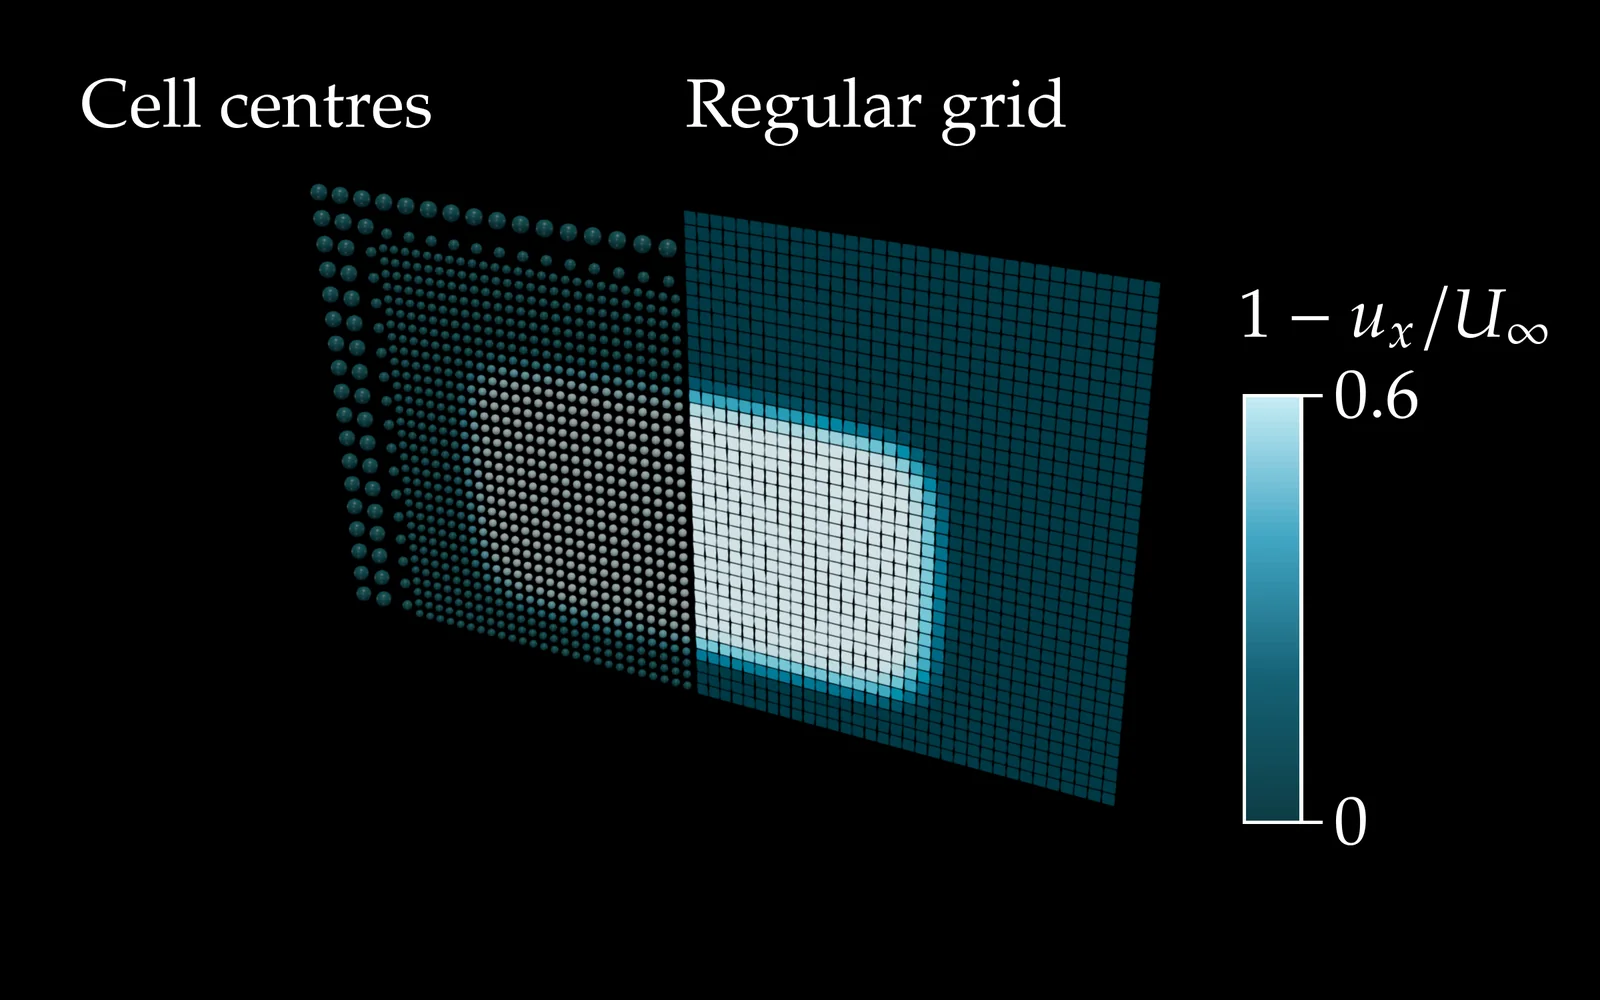
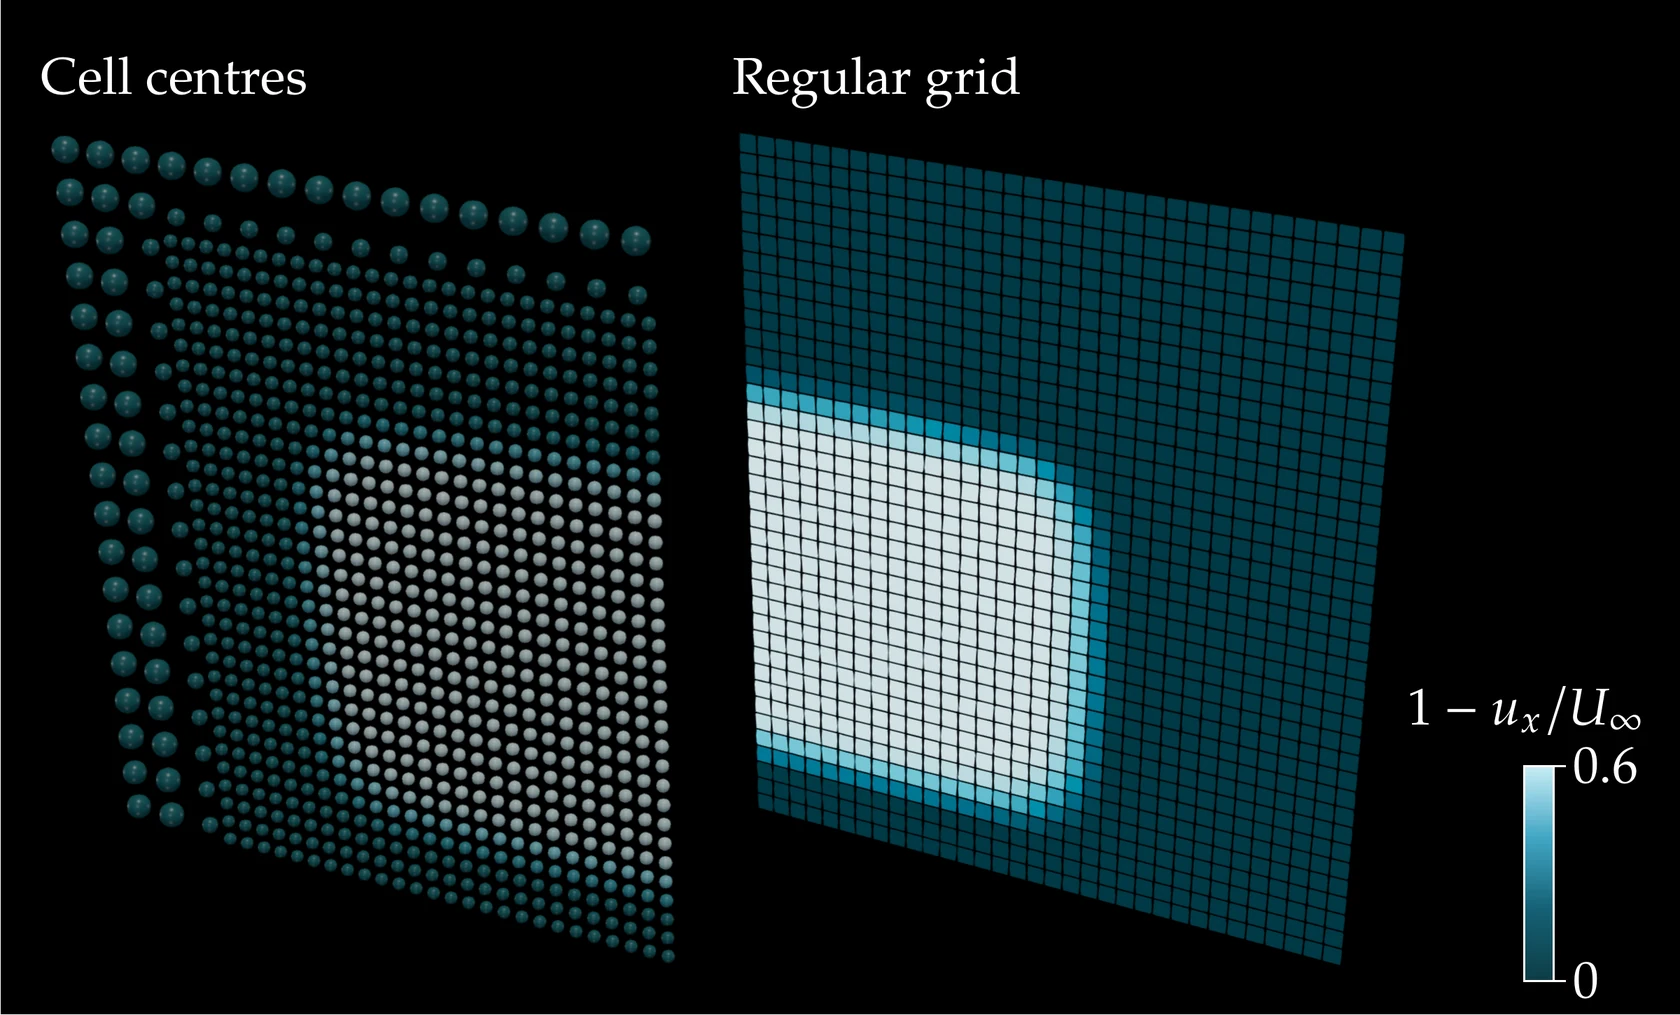
Figure to the OpenONDA figure spec; README shows it at 560 px
Cropped to its content, labels above panels on a shared baseline, a
short colour bar in the bottom-right corner, brushed-metal solids, and a
check that no text covers the drawing.

diff --git a/scripts/render/overlay.py b/scripts/render/overlay.py
@@ -1,94 +1,166 @@
-"""LaTeX overlay for the website renders, after the OpenONDA tutorial figures.
+"""LaTeX overlay for the website and README figures, after the OpenONDA tutorial figures.
 
-Puts a raw render on a fixed 16:10 canvas (90 mm x 56.25 mm) and adds white
-New PX text at 10.95 pt plus at most one vertical colour bar with end ticks.
-At the 600 px card width that text is about 26 px high, so it stays legible.
+Figure spec
+- Canvas 125 mm wide (the OpenONDA figure width), height set by the content.
+- Text: New PX at 10.95 pt, white on black. That is about 3 % of the image
+  width, so it reads as ~12.5 pt where READMEs show the figure 560 px wide and
+  ~10.5 pt on the 475 px website cards.
+- Each panel is trimmed to its content (anything brighter than the background)
+  plus a small margin, so there is no empty headroom.
+- Panel labels sit in a strip above their panel; the single colour bar is short
+  and sits in the bottom-right corner, in its own column. Neither may cover
+  the drawing: compose() checks that every pixel the overlay changes was
+  background, and fails otherwise.
 Writes <stem>.pdf, <stem>.png (2400 px wide) and <stem>.webp (quality 85).
 
-    compose("raw.png", "out/figure", bar=dict(name="thesis_blue", vmin=0, vmax=5,
-            title=r"$|\\omega|$ [1/s]"), labels=[(60, 40, r"$\\mathbf{U}$")])
+    compose([("raw.png", "Rotor only"), ("raw2.png", "Four wings")], "out/fig",
+            bar=dict(name="thesis_blue", vmin=0, vmax=0.6, title=r"$1-u_x/U_\\infty$"))
 """
 import shutil
 import subprocess
 import tempfile
 from pathlib import Path
 
+import numpy as np
 from PIL import Image
 
 from onda_style import colour
 
-WIDTH_MM, HEIGHT_MM = 90.0, 56.25
+WIDTH_MM = 125.0
 PIXELS = 2400
+PX_PER_MM = PIXELS / WIDTH_MM
+MARGIN_MM = 2.5            # around the canvas edge and between panels
+LABEL_MM = 6.5             # strip above a labelled panel
+BAR = dict(width=2.2, height=16.0, column=17.0, labels=6.0)   # bar size, its column, room for tick labels [mm]
+BACKGROUND = 18            # grey level below which a pixel counts as background
+
+
+def trim(img, pad_mm=1.0, box_only=False):
+    """Crop to pixels brighter than the background, plus pad_mm (box_only: return the box)."""
+    a = np.asarray(img.convert("L"))
+    rows, cols = np.where(a > BACKGROUND)
+    pad = int(pad_mm * PX_PER_MM)
+    box = (max(cols.min() - pad, 0), max(rows.min() - pad, 0),
+           min(cols.max() + pad + 1, img.width), min(rows.max() + pad + 1, img.height))
+    return box if box_only else img.crop(box)
 
 
 def _num(v):
-    return f"{v:.2g}".replace("e+0", "e").replace("-", "$-$") if isinstance(v, float) else str(v)
+    return f"{v:g}".replace("-", "$-$")
 
 
-def compose(raw, stem, bar=None, labels=(), crop=None):
-    """bar: dict(name, vmin, vmax, title, fade=0.0, x=4, y=14, height=24, ticks=None)
-    labels: (x_mm, y_mm, latex, anchor) from the lower-left corner.
-    crop: (left, top, right, bottom) fractions removed from the raw image."""
-    raw, stem = Path(raw).resolve(), Path(stem)
+def compose(panels, stem, bar=None, layout="column", check=True, notes=()):
+    """panels: list of (image path, label or None); layout: "column" or "row".
+    notes: point annotations on the first panel, (fx, fy, text, anchor, dx_mm, dy_mm) with
+    fx, fy fractions of the raw image from its lower-left corner. Notes are meant to sit
+    on the drawing, so the overlap check ignores them.
+    bar: dict(name, vmin, vmax, title, fade=0.0, ticks=[(fraction, text), ...])."""
+    stem = Path(stem)
     stem.parent.mkdir(parents=True, exist_ok=True)
-    work = Path(tempfile.mkdtemp())
-    img = Image.open(raw).convert("RGB")
-    if crop:
-        w, h = img.size
-        img = img.crop((int(crop[0] * w), int(crop[1] * h), int(w - crop[2] * w), int(h - crop[3] * h)))
-    # fill the canvas: scale to cover 16:10, centred
-    target = WIDTH_MM / HEIGHT_MM
-    w, h = img.size
-    if w / h > target:
-        nw = int(h * target)
-        img = img.crop(((w - nw) // 2, 0, (w - nw) // 2 + nw, h))
+    raws = [Image.open(p).convert("RGB") for p, _ in panels]
+    boxes = [trim(r, box_only=True) for r in raws]
+    imgs = [r.crop(b) for r, b in zip(raws, boxes)]
+    labels = [lab for _, lab in panels]
+    bar_mm = BAR["column"] if bar else 0.0
+    avail = WIDTH_MM - 2 * MARGIN_MM - bar_mm
+    if layout == "column":
+        widths = [avail] * len(imgs)
+    else:   # row: equal heights, total width = avail
+        gaps = MARGIN_MM * (len(imgs) - 1)
+        k = sum(i.width / i.height for i in imgs)
+        widths = [(avail - gaps) * (i.width / i.height) / k for i in imgs]
+    heights = [w * i.height / i.width for w, i in zip(widths, imgs)]
+    lab_mm = LABEL_MM if any(labels) else 0.0
+    if layout == "column":
+        H = MARGIN_MM + sum(h + lab_mm for h in heights) + MARGIN_MM * len(imgs)
     else:
-        nh = int(w / target)
-        img = img.crop((0, (h - nh) // 2, w, (h - nh) // 2 + nh))
-    img.save(work / "raw.png")
-
-    body = [rf"\node[anchor=south west,inner sep=0] at (0,0) {{\includegraphics[width={WIDTH_MM}mm,height={HEIGHT_MM}mm]{{raw.png}}}};"]
+        H = 2 * MARGIN_MM + lab_mm + max(heights)
     if bar:
-        x, y, hgt, wid = bar.get("x", 4.0), bar.get("y", 14.0), bar.get("height", 24.0), 3.2
+        H = max(H, BAR["height"] + 12.0)
+    H = round(H, 2)
+
+    # base raster: panels on black, positions in mm from the top-left
+    W_px, H_px = PIXELS, int(round(H * PX_PER_MM))
+    base = Image.new("RGB", (W_px, H_px))
+    places, y, x = [], MARGIN_MM, MARGIN_MM
+    for img, w, h in zip(imgs, widths, heights):
+        if layout == "column":
+            px, py = MARGIN_MM, y + lab_mm
+            y = py + h + MARGIN_MM
+        else:
+            px, py = x, MARGIN_MM + lab_mm + (max(heights) - h) / 2
+            x += w + MARGIN_MM
+        places.append((px, py, w, h))
+        base.paste(img.resize((int(w * PX_PER_MM), int(h * PX_PER_MM)), Image.LANCZOS),
+                   (int(px * PX_PER_MM), int(py * PX_PER_MM)))
+
+    work = Path(tempfile.mkdtemp())
+    base.save(work / "base.png")
+    body = []
+    for (px, py, w, h), lab in zip(places, labels):
+        if lab:   # in a row, all labels share one baseline above the tallest panel
+            top = MARGIN_MM + lab_mm if layout == "row" else py
+            body.append(rf"\node[anchor=base west,white,inner sep=0] at ({px + 0.5},{H - top + 2.0}) {{{lab}}};")
+    if bar:
+        bw, bh = BAR["width"], BAR["height"]
+        # tucked into the bottom-right corner: tick labels end at the right margin
+        bx = WIDTH_MM - MARGIN_MM - BAR["labels"] - 0.9 - bw
+        by = MARGIN_MM
         n = 64
         for k in range(n):
             r, g, b = colour(bar["name"], (k + 0.5) / n, bar.get("fade", 0.0))
             body.append(rf"\definecolor{{c{k}}}{{rgb}}{{{r:.4f},{g:.4f},{b:.4f}}}")
-            body.append(rf"\fill[c{k}] ({x},{y + hgt * k / n:.4f}) rectangle ({x + wid},{y + hgt * (k + 1) / n:.4f});")
-        body.append(rf"\draw[white,line width=0.6pt] ({x},{y}) rectangle ({x + wid},{y + hgt});")
+            body.append(rf"\fill[c{k}] ({bx},{by + bh * k / n:.4f}) rectangle ({bx + bw},{by + bh * (k + 1) / n:.4f});")
+        body.append(rf"\draw[white,line width=0.5pt] ({bx},{by}) rectangle ({bx + bw},{by + bh});")
         ticks = bar.get("ticks") or [(0.0, _num(bar["vmin"])), (1.0, _num(bar["vmax"]))]
         for f, text in ticks:
-            yy = y + hgt * f
-            body.append(rf"\draw[white,line width=0.6pt] ({x + wid},{yy}) -- ({x + wid + 1.2},{yy});")
-            body.append(rf"\node[anchor=west,white,inner sep=0.6mm] at ({x + wid + 1.2},{yy}) {{{text}}};")
-        body.append(rf"\node[anchor=south west,white,inner sep=0] at ({x - 0.4},{y + hgt + 2.4}) {{{bar['title']}}};")
-    for lab in labels:
-        xx, yy, text = lab[:3]
-        anchor = lab[3] if len(lab) > 3 else "center"
-        body.append(rf"\node[anchor={anchor},white,inner sep=0.5mm] at ({xx},{yy}) {{{text}}};")
-    tex = (r"""\documentclass[tikz,border=0pt]{standalone}
+            yy = by + bh * f
+            body.append(rf"\draw[white,line width=0.5pt] ({bx + bw},{yy}) -- ({bx + bw + 0.9},{yy});")
+            body.append(rf"\node[anchor=west,white,inner sep=0.5mm] at ({bx + bw + 0.9},{yy}) {{{text}}};")
+        body.append(rf"\node[anchor=south east,white,inner sep=0] at ({WIDTH_MM - MARGIN_MM},{by + bh + 2.2}) {{{bar['title']}}};")
+    def latex(name, lines):
+        tex = r"""\documentclass[tikz,border=0pt]{standalone}
 \usepackage[T1]{fontenc}
 \usepackage{newpxtext,newpxmath}
 \usepackage{graphicx}
 \begin{document}
 \begin{tikzpicture}[x=1mm,y=1mm,font=\fontsize{10.95}{13.1}\selectfont]
 \clip (0,0) rectangle (%s,%s);
-\fill[black] (0,0) rectangle (%s,%s);
+\node[anchor=south west,inner sep=0] at (0,0) {\includegraphics[width=%smm,height=%smm]{base.png}};
 %s
 \end{tikzpicture}
 \end{document}
-""" % (WIDTH_MM, HEIGHT_MM, WIDTH_MM, HEIGHT_MM, "\n".join(body)))
-    (work / "fig.tex").write_text(tex)
-    run = subprocess.run(["pdflatex", "-interaction=nonstopmode", "fig.tex"], cwd=work, capture_output=True, text=True)
-    if run.returncode:
-        raise RuntimeError(run.stdout[-2000:])
+""" % (WIDTH_MM, H, WIDTH_MM, H, "\n".join(lines))
+        (work / f"{name}.tex").write_text(tex)
+        run = subprocess.run(["pdflatex", "-interaction=nonstopmode", f"{name}.tex"], cwd=work, capture_output=True, text=True)
+        if run.returncode:
+            raise RuntimeError(run.stdout[-2000:])
+        subprocess.run(["pdftoppm", "-png", "-r", f"{PX_PER_MM * 25.4:.3f}", "-singlefile", f"{name}.pdf", name],
+                       cwd=work, check=True)
+        return Image.open(work / f"{name}.png").convert("RGB").resize((W_px, H_px), Image.LANCZOS)
+
+    note_lines = []
+    if notes:
+        (px, py, w, h), (x0, y0, x1, y1), raw0 = places[0], boxes[0], raws[0]
+        for fx, fy, text, anchor, dx, dy in notes:
+            ix, iy = fx * raw0.width, (1 - fy) * raw0.height          # raw pixels from the top-left
+            mx = px + (ix - x0) / (x1 - x0) * w + dx
+            my = H - (py + (iy - y0) / (y1 - y0) * h) + dy
+            note_lines.append(rf"\node[anchor={anchor},white,inner sep=0.4mm] at ({mx:.2f},{my:.2f}) {{{text}}};")
+    out = latex("fig", body + note_lines)
     shutil.copy(work / "fig.pdf", stem.with_suffix(".pdf"))
-    dpi = PIXELS / (WIDTH_MM / 25.4)
-    subprocess.run(["pdftoppm", "-png", "-r", f"{dpi:.3f}", "-singlefile", "fig.pdf", "out"], cwd=work, check=True)
-    out = Image.open(work / "out.png").convert("RGB")
-    out = out.resize((PIXELS, round(PIXELS * HEIGHT_MM / WIDTH_MM)), Image.LANCZOS)
+    if check:   # every pixel the overlay changes must have been background
+        plain = latex("plain", [])
+        furniture = latex("furniture", body) if note_lines else out
+        a, b = np.asarray(plain.convert("L")).astype(int), np.asarray(furniture.convert("L")).astype(int)
+        changed = np.abs(a - b) > 40
+        clash = changed & (a > BACKGROUND + 12)
+        if clash.sum() > 0.002 * max(changed.sum(), 1):
+            ys, xs = np.where(clash)
+            raise RuntimeError(f"overlay covers the drawing near x = {xs.mean() / PX_PER_MM:.0f} mm, "
+                               f"y = {ys.mean() / PX_PER_MM:.0f} mm from the top-left ({clash.sum()} px)")
     out.save(stem.with_suffix(".png"), optimize=True)
     out.save(stem.with_suffix(".webp"), quality=85, method=6)
     shutil.rmtree(work)
-    for ext in (".png", ".webp"):
-        print(stem.with_suffix(ext), f"{stem.with_suffix(ext).stat().st_size / 1e3:.0f} kB", out.size)
+    print(stem.with_suffix(".webp"), f"{stem.with_suffix('.webp').stat().st_size / 1e3:.0f} kB", out.size,
+          f"{WIDTH_MM:g} x {H:g} mm")

diff --git a/scripts/render/onda_style.py b/scripts/render/onda_style.py
@@ -7,7 +7,8 @@ Rules:
 - black background; the low end of each sequential map fades into it;
 - one-hue OpenONDA maps: thesis_blue for magnitudes, thesis_signed for signed
   fields with a meaningful zero (signed_dark on black), thesis_amber for streamlines and trajectories;
-- solids are matte grey PBR; no outlines, axes or floors;
+- solids are matte grey PBR; metal parts use metal() (brushed, grainy metal);
+  no outlines, axes or floors;
 - OpenGL with the OpenONDA light kit and filmic tone mapping;
 - text and the single colour bar are added afterwards by overlay.py (LaTeX,
   New PX), large enough to read at the figure's display size.
@@ -109,3 +110,70 @@ def save(view, path, width, height):
     view.Update()
     SaveScreenshot(str(path), view, ImageResolution=[width, height],
                    TransparentBackground=0, CompressionLevel=0)
+
+
+def _grain_textures(directory, size=512, seed=3):
+    """Brushed-metal textures: an ORM map (occlusion, roughness, metallic) with
+    streaky roughness, and a matching normal map. Written as PNG with VTK."""
+    from pathlib import Path
+
+    import numpy as np
+    from vtkmodules.util.numpy_support import numpy_to_vtk
+    from vtkmodules.vtkCommonDataModel import vtkImageData
+    from vtkmodules.vtkIOImage import vtkPNGWriter
+    rng = np.random.default_rng(seed)
+    noise = rng.standard_normal((size, size))
+    # streaks: smooth strongly along u (the brushing direction), lightly along v
+    k = np.exp(-np.linspace(-3, 3, 61) ** 2)
+    streak = np.apply_along_axis(lambda r: np.convolve(np.r_[r[-30:], r, r[:30]], k / k.sum(), "valid"), 1, noise)
+    fine = rng.standard_normal((size, size)) * 0.35
+    h = streak / streak.std() + fine
+    rough = np.clip(0.32 + 0.10 * h, 0.12, 0.7)
+    orm = np.stack([np.ones_like(h), rough, np.full_like(h, 0.2)], -1)   # partly metallic: a black
+    # background gives a fully metallic surface nothing to reflect, so keep some diffuse shading
+    gy, gx = np.gradient(h)
+    n = np.stack([-0.2 * gx, -0.2 * gy, np.ones_like(h)], -1)
+    n /= np.linalg.norm(n, axis=-1, keepdims=True)
+    paths = {}
+    for name, arr in (("metal_orm", orm), ("metal_normal", 0.5 * n + 0.5)):
+        img = vtkImageData()
+        img.SetDimensions(size, size, 1)
+        img.GetPointData().SetScalars(numpy_to_vtk((arr * 255).astype(np.uint8).reshape(-1, 3), deep=1))
+        path = Path(directory) / f"{name}.png"
+        w = vtkPNGWriter()
+        w.SetFileName(str(path))
+        w.SetInputData(img)
+        w.Write()
+        paths[name] = str(path)
+    return paths
+
+
+def metal(source, view, mapping="cylinder", rgb=(0.92, 0.93, 0.95), repeat=(4.0, 1.0)):
+    """Show ``source`` as brushed metal: metallic PBR with grainy roughness and
+    micro-normals. mapping: how texture coordinates are laid on (cylinder,
+    plane or sphere). Returns the display."""
+    import tempfile
+    from pathlib import Path as _P
+    from paraview.simple import (CreateTexture, ExtractSurface, Show, SurfaceNormals, SurfaceTangents,
+                                 TextureMaptoCylinder, TextureMaptoPlane, TextureMaptoSphere, Triangulate)
+    mapper = {"cylinder": TextureMaptoCylinder, "plane": TextureMaptoPlane, "sphere": TextureMaptoSphere}[mapping]
+    tc = mapper(Input=SurfaceNormals(Input=ExtractSurface(Input=source)))   # any dataset -> polygons
+    if mapping == "cylinder":
+        tc.PreventSeam = 0
+    tangents = SurfaceTangents(Input=Triangulate(Input=tc))   # tangents need triangles
+    tex = _grain_textures(_P(tempfile.mkdtemp()))
+    d = Show(tangents, view)
+    d.Representation = "Surface"
+    d.ColorArrayName = ["POINTS", ""]
+    d.DiffuseColor = d.AmbientColor = list(rgb)
+    d.Interpolation = "PBR"
+    d.Metallic = 1.0                       # scaled by the ORM texture's metallic channel
+    d.Roughness = 1.0                      # scaled by the ORM texture's roughness channel
+    d.MaterialTexture = CreateTexture(tex["metal_orm"])
+    d.NormalTexture = CreateTexture(tex["metal_normal"])
+    d.NormalScale = 1.0
+    d.RepeatTextures = 1
+    d.InterpolateTextures = 1
+    d.TextureTransform = "Transform2"
+    d.TextureTransform.Scale = [repeat[0], repeat[1], 1.0]
+    return d

diff --git a/scripts/render/render_slice.py b/scripts/render/render_slice.py
@@ -1,7 +1,7 @@
 """ParaView (pvpython) render in the OpenONDA style: OpenFOAM cell-centre samples
 beside the same plane resampled onto a regular grid.
 
-Usage: pvpython render_slice.py <output png> [width height]
+Usage: pvpython render_slice.py <output png> <samples|grid> [width height]
 Reads outputs/render/{samples,grid}.vtp from compute_slice.py.
 
 Black background. Both halves show the velocity deficit 1 - u_x/U_inf with
@@ -16,8 +16,8 @@ sys.path.insert(0, str(HERE))
 import onda_style as style  # noqa: E402
 from paraview.simple import Calculator, Glyph, Show, XMLPolyDataReader  # noqa: E402
 
-out = Path(sys.argv[1])
-width, height = (int(a) for a in (sys.argv[2:4] if len(sys.argv) > 3 else (2400, 1500)))
+out, which = Path(sys.argv[1]), sys.argv[2]
+width, height = (int(a) for a in (sys.argv[3:5] if len(sys.argv) > 4 else (3000, 1875)))
 DATA = HERE.parents[1] / "outputs" / "render"
 U_INF, DEFICIT_MAX = 4.0, 0.6
 
@@ -33,14 +33,16 @@ spheres.GlyphType.PhiResolution = 16
 spheres.ScaleArray = ["POINTS", "radius"]
 spheres.ScaleFactor = 1.0
 spheres.GlyphMode = "All Points"
-style.mapped(Show(spheres, view), "deficit", lut, roughness=0.35)
+if which == "samples":
+    style.mapped(Show(spheres, view), "deficit", lut, roughness=0.35)
 
 grid = Calculator(Input=XMLPolyDataReader(FileName=[str(DATA / "grid.vtp")]), AttributeType="Cell Data",
                   ResultArrayName="deficit", Function=f"1 - Ux/{U_INF}")
-d = Show(grid, view)
-style.mapped(d, "deficit", lut, assoc="CELLS")
-d.Interpolation = "Flat"
-d.Ambient, d.Diffuse = 1.0, 0.0                 # unlit: the field glows
+if which == "grid":
+    d = Show(grid, view)
+    style.mapped(d, "deficit", lut, assoc="CELLS")
+    d.Interpolation = "Flat"
+    d.Ambient, d.Diffuse = 1.0, 0.0             # unlit: the field glows
 lut.RescaleTransferFunction(0.0, DEFICIT_MAX)
 
 view.CameraPosition = [18.3, 4.7, 6.3]

diff --git a/scripts/render/compose_slice.py b/scripts/render/compose_slice.py
@@ -1,6 +1,6 @@
 """Add the LaTeX overlay (half labels and the deficit colour bar) to the slice render.
 
-Usage: python compose_slice.py <raw png> <output stem>
+Usage: python compose_slice.py <samples png> <grid png> <output stem>
 """
 import sys
 from pathlib import Path
@@ -8,8 +8,6 @@ from pathlib import Path
 sys.path.insert(0, str(Path(__file__).resolve().parent))
 from overlay import compose  # noqa: E402
 
-raw, stem = Path(sys.argv[1]), Path(sys.argv[2])
-compose(raw, stem,
-        bar=dict(name="thesis_blue", vmin=0, vmax=0.6, x=70, y=10, height=24, title=r"$1-u_x/U_\infty$",
-                 ticks=[(0.0, "0"), (1.0, "0.6")]),
-        labels=[(4, 52.5, "Cell centres", "north west"), (38, 52.5, "Regular grid", "north west")])
+samples, grid, stem = (Path(a) for a in sys.argv[1:4])
+compose([(samples, "Cell centres"), (grid, "Regular grid")], stem, layout="row",
+        bar=dict(name="thesis_blue", vmin=0, vmax=0.6, title=r"$1-u_x/U_\infty$", ticks=[(0.0, "0"), (1.0, "0.6")]))

diff --git a/README.md b/README.md
@@ -2,7 +2,7 @@
 
 **From OpenFOAM cell data to regular NumPy grids.**
 
-![One wake plane: OpenFOAM cell centres on the left and the same velocity deficit on a regular grid on the right](docs/assets/render.webp)
+<p align="center"><img src="docs/assets/render.webp" width="560" alt="One wake plane: OpenFOAM cell centres on the left and the same velocity deficit on a regular grid on the right"></p>
 
 Read OpenFOAM fields with [fluidfoam](https://fluidfoam.readthedocs.io/) and resample them onto regular arrays with local radial-basis interpolation, ready for profiles and planar sections. A rotor-wake snapshot is included; no OpenFOAM installation is needed to read it.
 
